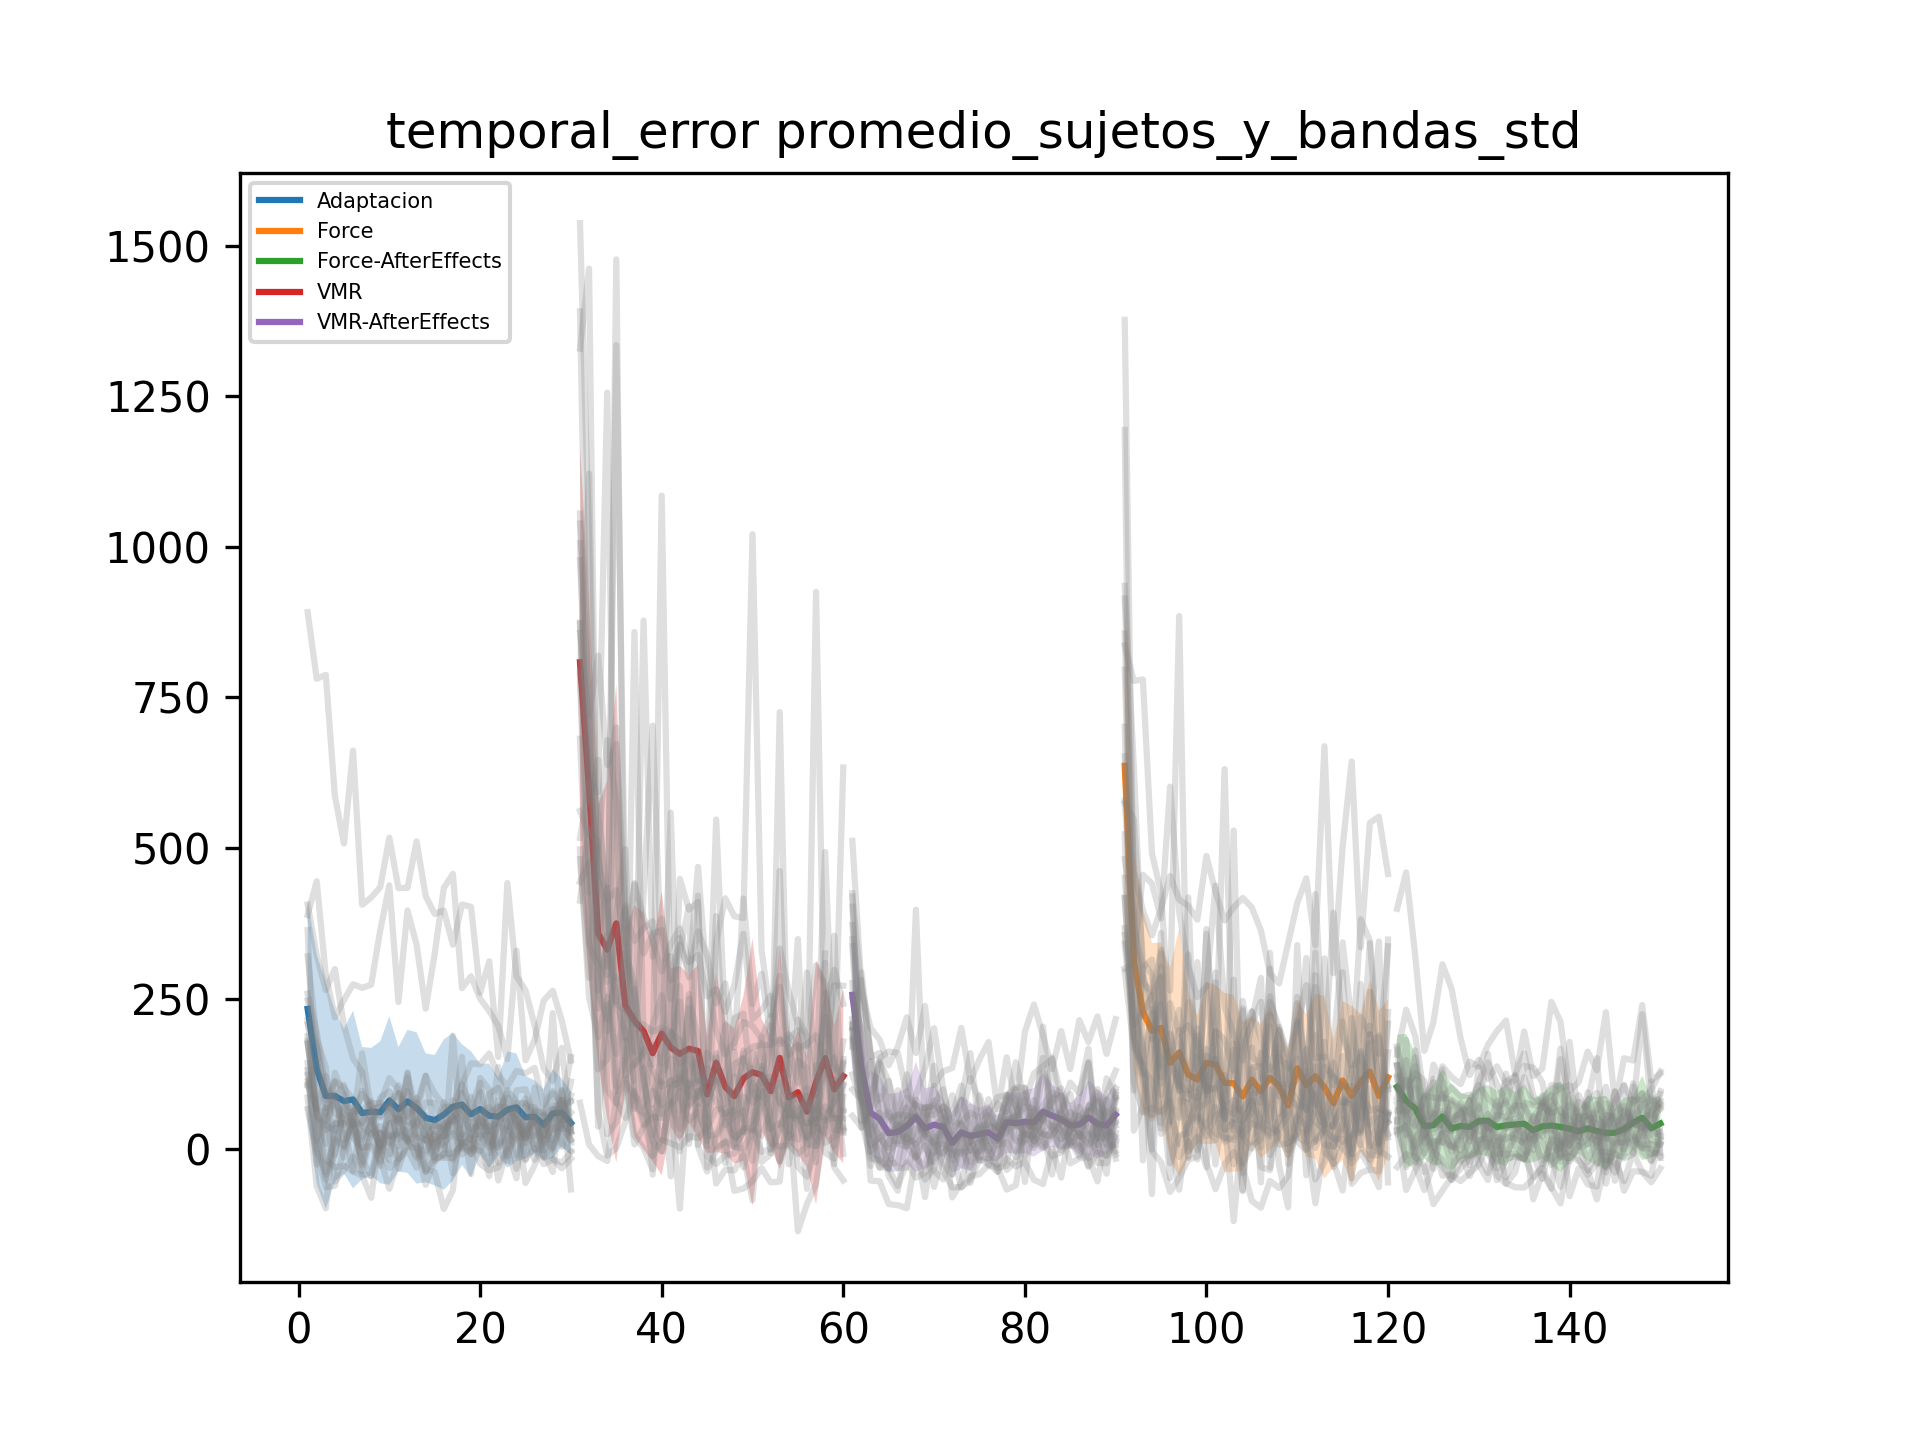
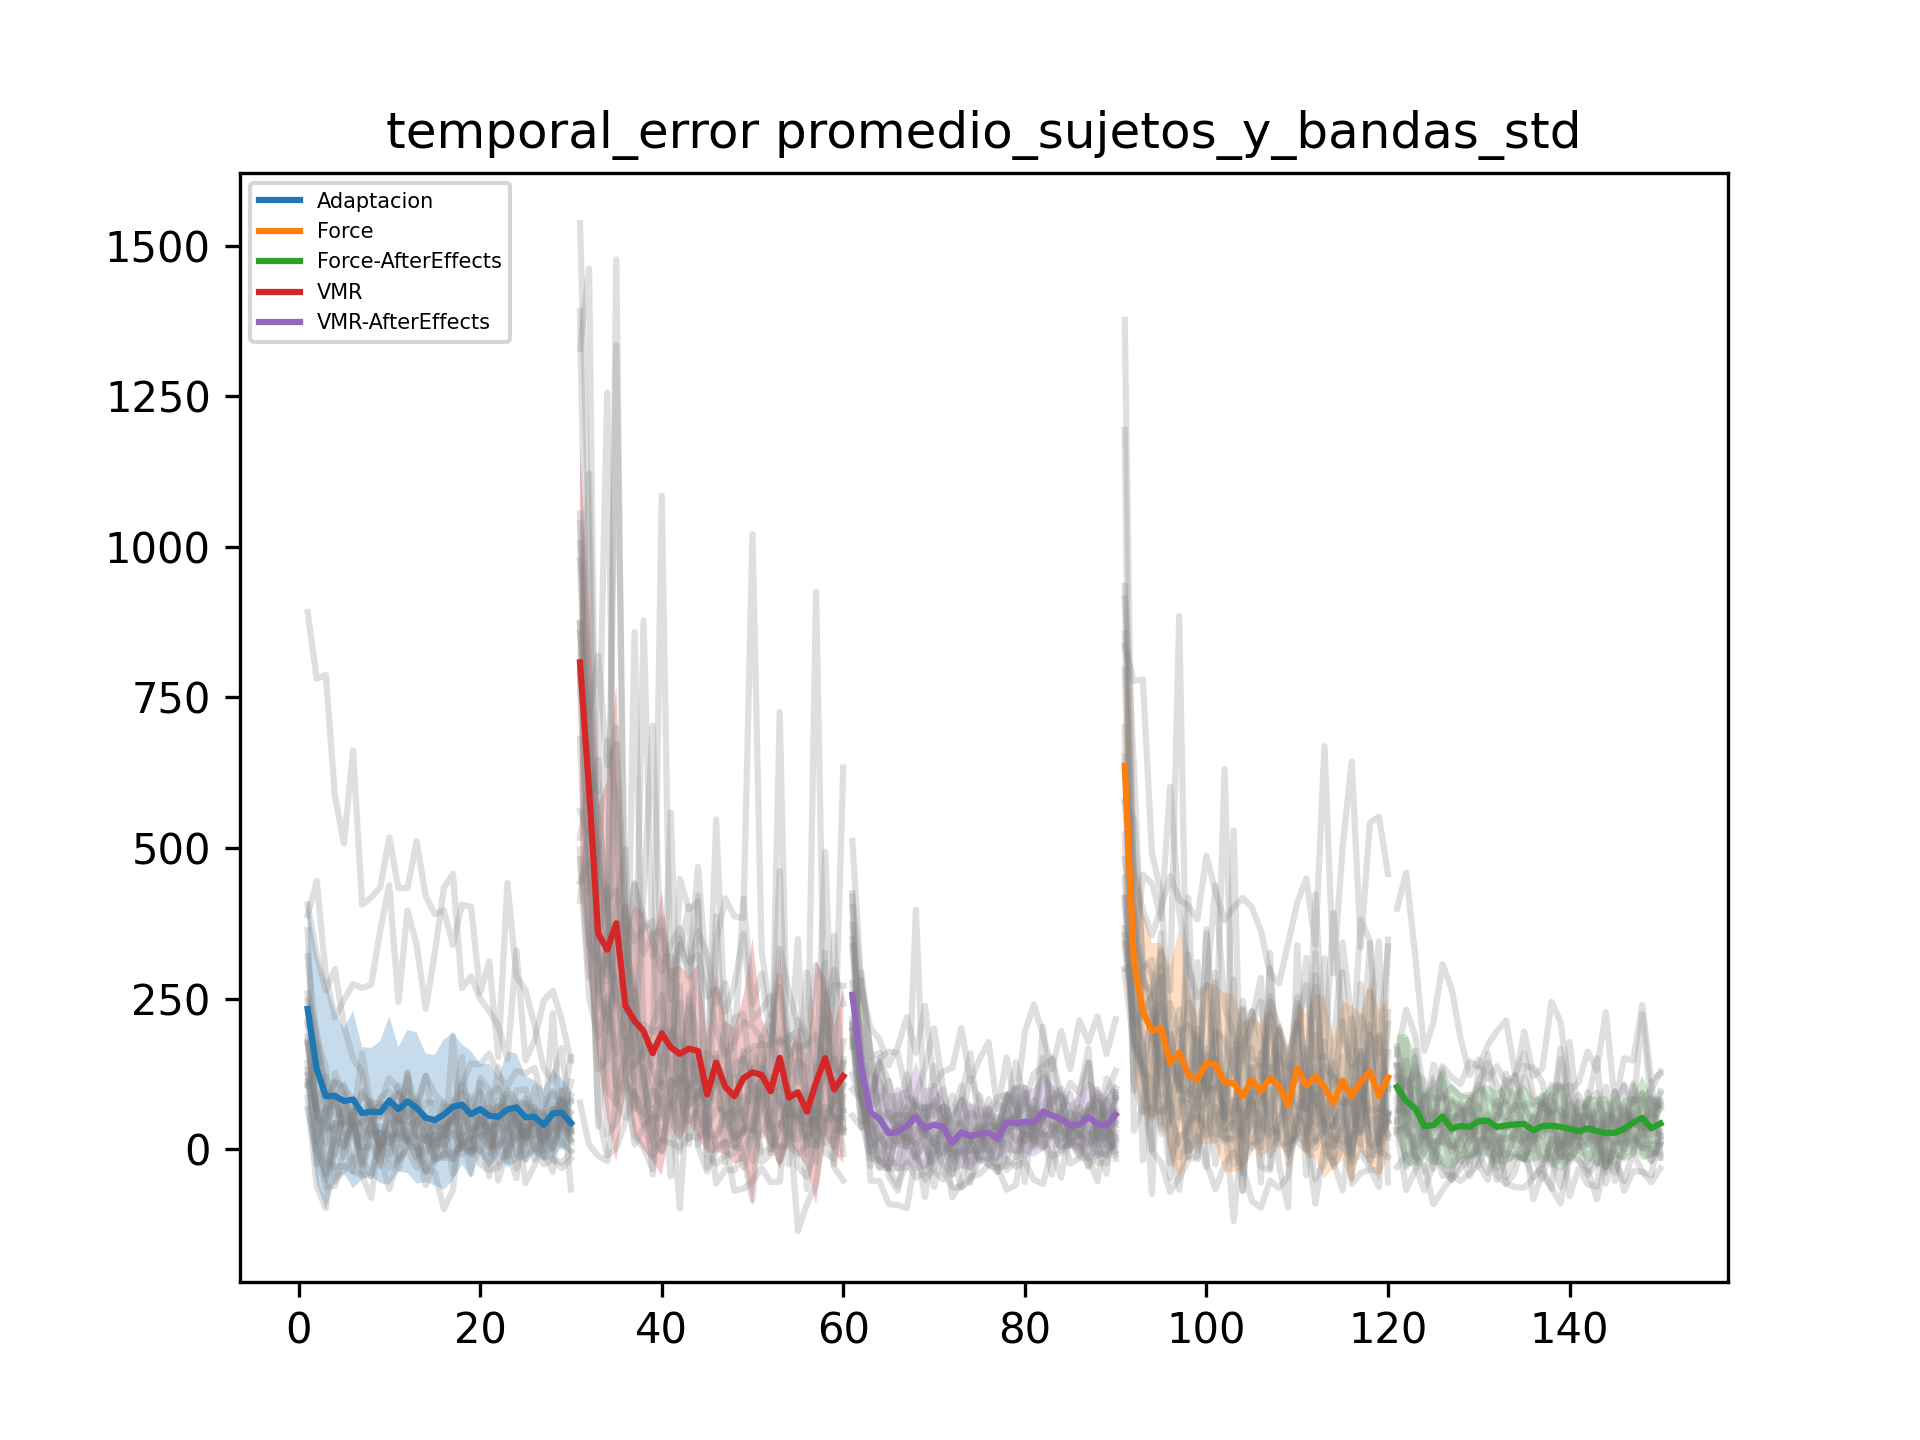
Nuevas imagenes, retocadas

diff --git a/app/source/plot_analisis_datos.py b/app/source/plot_analisis_datos.py
@@ -259,41 +259,54 @@ def axs_plot_bandas_mad(fig, axs, df, metrics, title ="bandas_mad"):
     plt.savefig(os.path.join(path, f"{title}.png") , dpi = 500)
 
 figure_offset = 0
+'''
 title = "sujetos"
 plot_sujetos(df, metrics, figure_offset, title=title, showLabel=True)
 print(f"Listo {title}")
 
-figure_offset = len(metrics)
-title = "promedio_y_bandas_std"
-plot_promedio(df, metrics, figure_offset, title=title)
-plot_bandas_std(df, metrics, figure_offset, title=title)
-print(f"Listo {title}")
-
-figure_offset = len(metrics) * 2
+figure_offset += len(metrics)
 title = "promedio_y_sujetos"
-plot_promedio(df, metrics, figure_offset, title=title)
 plot_sujetos(df, metrics, figure_offset, title=title, color_choice = 'grey', alpha=0.25)
+plot_promedio(df, metrics, figure_offset, title=title)
 print(f"Listo {title}")
 
-figure_offset = len(metrics) * 3
-title = "promedio_sujetos_y_bandas_std"
+figure_offset += len(metrics)
+title = "promedio_y_bandas_std"
+plot_bandas_std(df, metrics, figure_offset, title=title)
 plot_promedio(df, metrics, figure_offset, title=title)
+print(f"Listo {title}")
+
+figure_offset += len(metrics)
+title = "promedio_y_bandas_sem"
+plot_bandas_sem(df, metrics, figure_offset, title=title)
+plot_promedio(df, metrics, figure_offset, title=title)
+print(f"Listo {title}")
+
+figure_offset += len(metrics)
+title = "mediana_y_bandas_mad"
+plot_bandas_mad(df, metrics, figure_offset, title=title)
+plot_mediana(df, metrics, figure_offset, title=title)
+print(f"Listo {title}")
+
+figure_offset += len(metrics)
+title = "promedio_sujetos_y_bandas_std"
 plot_sujetos(df, metrics, figure_offset, title=title, color_choice = 'grey', alpha=0.25)
 plot_bandas_std(df, metrics, figure_offset, title=title)
+plot_promedio(df, metrics, figure_offset, title=title)
 print(f"Listo {title}")
 
-figure_offset = len(metrics) * 4
+figure_offset += len(metrics)
 title = "promedio_sujetos_y_bandas_sem"
-plot_promedio(df, metrics, figure_offset, title=title)
 plot_sujetos(df, metrics, figure_offset, title=title, color_choice = 'grey', alpha=0.25)
 plot_bandas_sem(df, metrics, figure_offset, title=title)
+plot_promedio(df, metrics, figure_offset, title=title)
 print(f"Listo {title}")
-
-figure_offset = len(metrics) * 5
-title = "mediana_sujetos_y_bandas_sem"
-plot_mediana(df, metrics, figure_offset, title=title)
+'''
+figure_offset += len(metrics)
+title = "mediana_sujetos_y_bandas_mad"
 plot_sujetos(df, metrics, figure_offset, title=title, color_choice = 'grey', alpha=0.25)
 plot_bandas_mad(df, metrics, figure_offset, title=title)
+plot_mediana(df, metrics, figure_offset, title=title)
 print(f"Listo {title}")
 
 
